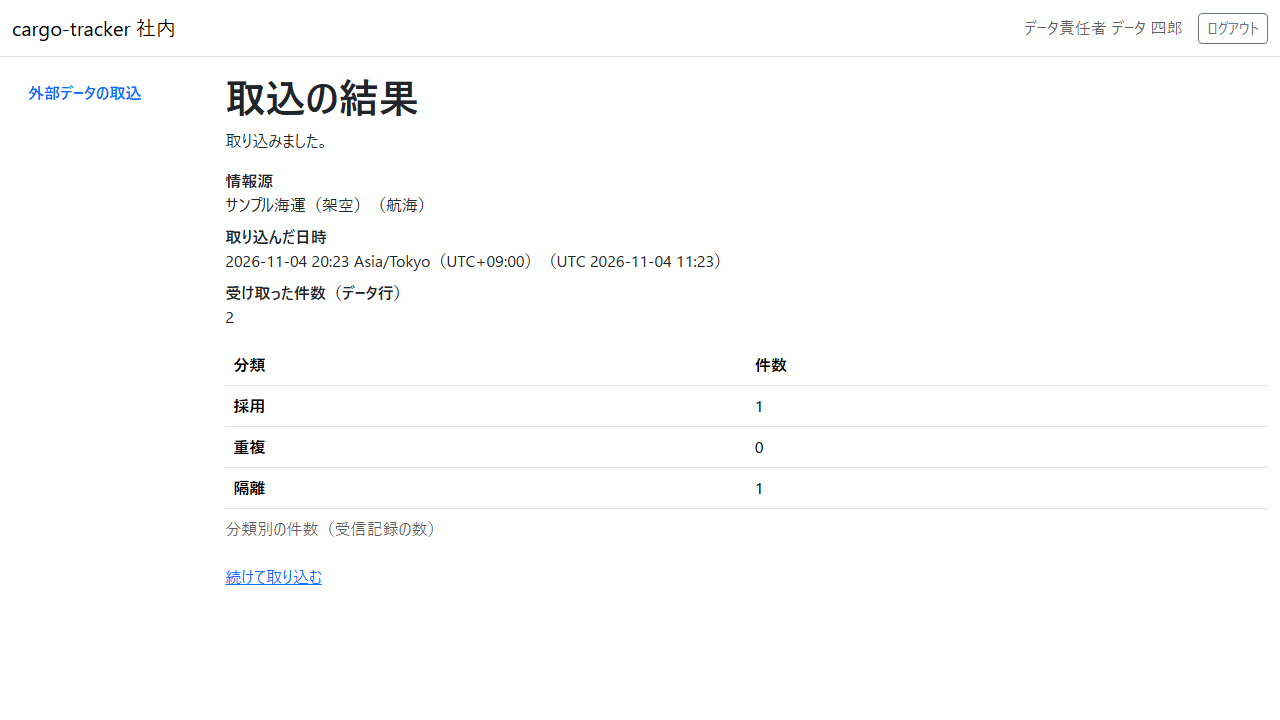
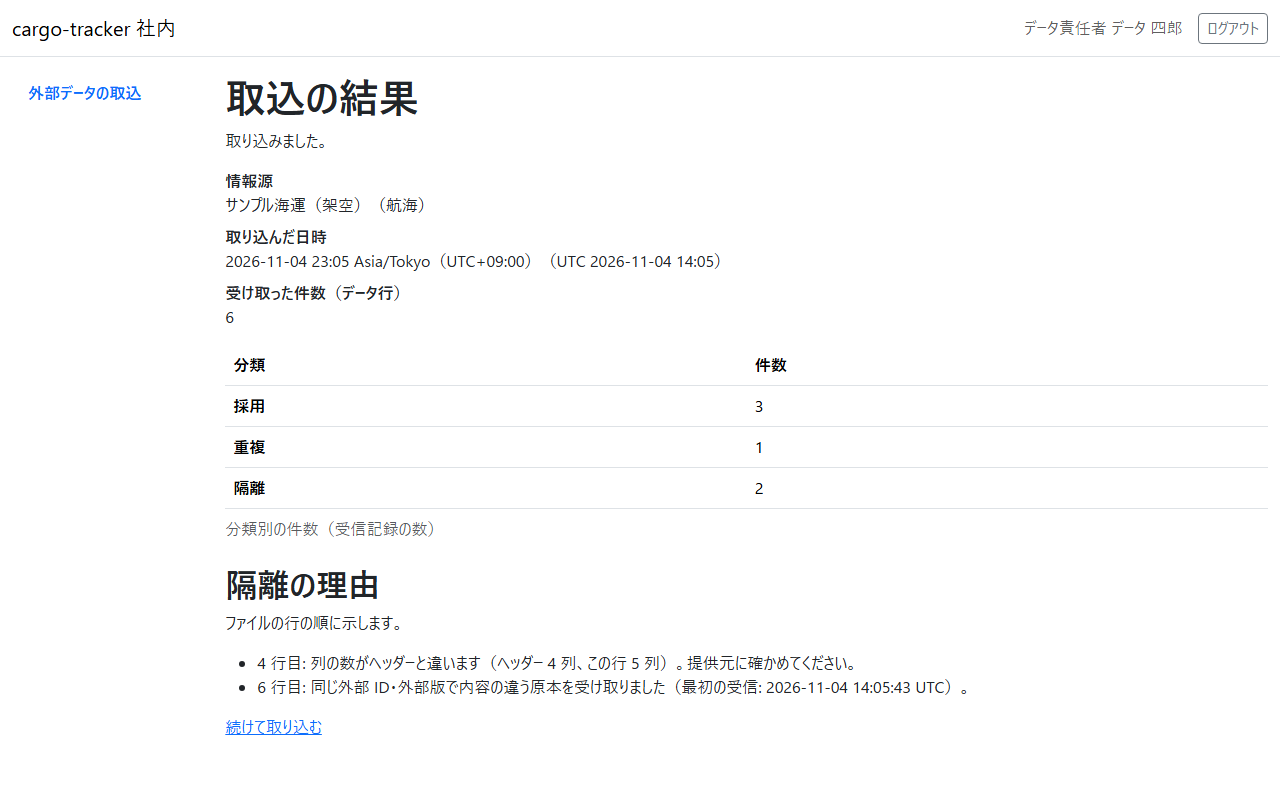
docs(manual): 隔離の理由の読み方と早見表をマニュアル 12 章に書く（Bolt 39c3 ステップ 7）
12.1 に「隔離の理由を読む」の項、理由ごとの「どうすればよいか」の早見表（実装の文と
突き合わせた。T-197）、用語集に「隔離の理由」、キャプチャ 12-ingestion-result.png を撮り直した。

Claude-Session: https://claude.ai/code/session_01GYBUMiQNsZ1DuDCs7LKGFo

diff --git a/docs/manual/12-外部データ.md b/docs/manual/12-外部データ.md
@@ -4,7 +4,7 @@ title: "12 章 外部データ"
 description: "データ責任者が、承認済みの情報源（運送会社・港湾など）から受け取った CSV ファイルを取り込み、採用・重複・隔離の件数を確かめる手順です。"
 tags: [manual,cargo-tracker]
 status: draft
-generated: { by: anthropic/claude-opus-5-5, at: 2026-11-04T12:23:24Z }
+generated: { by: anthropic/claude-opus-5-5, at: 2026-11-04T14:06:42Z }
 ---
 
 # 12 章 外部データ
@@ -16,7 +16,7 @@ generated: { by: anthropic/claude-opus-5-5, at: 2026-11-04T12:23:24Z }
 | 画面 | 役割 | 節 |
 | :--- | :--- | :--- |
 | 外部データの取込 | 承認済みの情報源を 1 つ選び、CSV ファイルを取り込む | [12.1](#121-外部データの取込) |
-| 取込の結果 | 取り込んだファイルの受け取った件数と、分類別の件数を確かめる | [12.1](#取込の結果を読む) |
+| 取込の結果 | 取り込んだファイルの受け取った件数と、分類別の件数と、隔離の理由を確かめる | [12.1](#取込の結果を読む) |
 
 情報源の選定と承認は、画面ではなく運用の手順で行います。取り込んだ行のうち隔離になったものの内容を確かめる画面（隔離・差異の確認）は準備中です。
 
@@ -25,7 +25,7 @@ generated: { by: anthropic/claude-opus-5-5, at: 2026-11-04T12:23:24Z }
 ### この画面でできること
 
 - 承認済みの情報源を 1 つ選び、その情報源から受け取った CSV ファイルを取り込みます
-- 取り込んだ後に、受け取った件数と、採用・重複・隔離の件数を確かめます
+- 取り込んだ後に、受け取った件数と、採用・重複・隔離の件数と、隔離になった行の理由を確かめます
 
 ### 画面の開き方
 
@@ -82,7 +82,8 @@ generated: { by: anthropic/claude-opus-5-5, at: 2026-11-04T12:23:24Z }
 | ③ | 取り込んだ日時 | 取り込んだ日時。日本時間と UTC を併記します（例: 2026-11-16 10:05 Asia/Tokyo（UTC+09:00）（UTC 2026-11-16 01:05）） |
 | ④ | 受け取った件数（データ行） | ファイルのデータ行の数。ヘッダーの行と空の行は数えません |
 | ⑤ | 分類別の件数（受信記録の数） | 取り込んだ行の分類ごとの数。「採用」「重複」「隔離」の 3 行です |
-| ⑥ | 「続けて取り込む」 | 外部データの取込の画面に戻ります |
+| ⑥ | 隔離の理由 | 隔離になった行とファイルの理由を、ファイルの行の順に示します。隔離が 1 件以上のときだけ示されます。読み方は次の「隔離の理由を読む」を見てください |
+| ⑦ | 「続けて取り込む」 | 外部データの取込の画面に戻ります |
 
 分類の意味と、取り込んだ後にすることは次のとおりです。
 
@@ -90,9 +91,59 @@ generated: { by: anthropic/claude-opus-5-5, at: 2026-11-04T12:23:24Z }
 | :--- | :--- | :--- |
 | 採用 | 初めて受け取った行。業務で使う値として記録されました | ありません |
 | 重複 | すでに受け取った行（同じファイルの前の行を含む）と、提供元・原本の種別・外部 ID・外部版も内容も同じ行。値は増えず、前に取り込んだ結果がそのまま使われます | ありません。同じファイルを誤って 2 度取り込んだときは、すべて重複になります |
-| 隔離 | すでに受け取った行（同じファイルの前の行を含む）と、提供元・原本の種別・外部 ID・外部版が同じなのに内容が違う行。前に取り込んだ原本と値は上書きされず、隔離して残します。ファイルや行の形式を確かめられないとき（中身が空のファイルや、選んだ情報源と違う種別のファイルを選んだときなど）も隔離になります | 形式を確かめられない隔離かもしれないので、まず選んだ情報源とファイルの組み合わせを確かめてください。それでも分からなければ、提供元に、同じ外部 ID・外部版で内容の違う行を送った理由や、ファイルの形式を確かめてください。隔離した行の内容を確かめる画面（隔離・差異の確認）は準備中です。隔離の理由の読み方は、後の版で本章に足します |
+| 隔離 | すでに受け取った行（同じファイルの前の行を含む）と、提供元・原本の種別・外部 ID・外部版が同じなのに内容が違う行。前に取り込んだ原本と値は上書きされず、隔離して残します。ファイルや行の形式を確かめられないとき（中身が空のファイルや、選んだ情報源と違う種別のファイルを選んだときなど）も隔離になります | 形式を確かめられない隔離かもしれないので、まず選んだ情報源とファイルの組み合わせを確かめてください。それでも分からなければ、提供元に、同じ外部 ID・外部版で内容の違う行を送った理由や、ファイルの形式を確かめてください。どの行がどの理由で隔離になったかは、結果の画面の「隔離の理由」で確かめられます（[隔離の理由を読む](#隔離の理由を読む)）。隔離した行の内容を確かめる画面（隔離・差異の確認）は準備中です |
 
 受け取った件数（データ行）と、分類別の件数の合計は、一致しないことがあります。受け取った件数はファイルの行の数で数え、分類別の件数は取り込んだ記録の数で数えるためです。たとえば、1 つの値の中に改行を含む行は、ファイルでは 2 行以上でも 1 件の記録になります。
+
+### 隔離の理由を読む
+
+隔離が 1 件以上あると、分類別の件数の下に「隔離の理由」が示されます。隔離になった行とファイルの理由が、ファイルの行の順に 1 つずつ並びます。ファイル全体の誤りが先、続いて行の番号の順です。画面を読み込み直しても順は変わりません。重複の行の理由は示しません（重複は値に影響せず、することがないため）。
+
+1 つの理由は、次の形で示されます。
+
+```text
+<どこ>: <理由>（<詳しい内容>）。<どうすればよいか>
+```
+
+例: 「4 行目: 列の数がヘッダーと違います（ヘッダー 4 列、この行 5 列）。提供元に確かめてください。」
+
+「どこ」の読み方は次のとおりです。行の番号は、ヘッダーの行を 1 行目として、ファイルの行を上から数えた番号です（テキストエディターの行の番号と同じです）。
+
+| どこ | 意味 |
+| :--- | :--- |
+| ファイル | ファイル全体を読めなかった、またはヘッダーの行に誤りがある。ファイルの行は 1 行も取り込まれていません |
+| 12 行目 | その 1 行 |
+| 12 行目から 13 行目まで | 値の中の改行で 2 行以上にまたがる 1 件 |
+| 12 行目からファイルの終わりまで | 引用符が閉じないままファイルが終わり、その行から後を取り込めなかった部分。理由の一覧の最後に示されます |
+
+「詳しい内容」には、誤りのある列の名前や列の数などが括弧の中に示されます。詳しい内容がない理由もあります。
+
+隔離が 100 件を超えると、最初の 100 件だけを示し、その下に「ほかに 9,900 件の隔離があります（最初の 100 件だけを示しています）。」のように残りの件数を示します。すべての隔離を確かめる画面（隔離・差異の確認）は準備中です。
+
+#### 理由ごとの「どうすればよいか」
+
+理由と、画面に示される「どうすればよいか」は次のとおりです。内容の違う原本の理由には「どうすればよいか」が示されないので、表の「どうすればよいか」に従ってください。
+
+| どこ | 理由（画面の文） | どうすればよいか（画面の文） |
+| :--- | :--- | :--- |
+| ファイル | 文字コードが UTF-8 ではありません | UTF-8 で保存し直したファイルを取り込んでください。 |
+| ファイル | ヘッダーを読めません | ヘッダーの引用符を確かめてください。 |
+| ファイル | 必要な列がありません（足りない列の名前） | 選んだ情報源の種別に合ったファイルか確かめてください。合っていれば提供元に確かめてください。 |
+| ファイル | 同じ名前の列があります（重なっている列の名前） | 提供元に確かめてください。 |
+| 行 | 閉じた引用符の後に文字があります | 提供元に確かめてください。 |
+| 行 | 引用符で囲まない値の中に引用符があります | 引用符を含む値は引用符で囲んでください。 |
+| 行 | 列の数がヘッダーと違います（ヘッダーの列の数、この行の列の数） | 提供元に確かめてください。 |
+| 行 | 値が空です（列の名前） | 提供元に確かめてください。 |
+| 行 | 時刻の書式が違います（列の名前など） | オフセット付きの ISO 8601（例 2026-11-03T09:00:00+09:00）で書いてください。 |
+| 行 | 値が長すぎます（列の名前と上限の文字数） | 提供元に確かめてください。 |
+| 行 | 場所の形が違います（列の名前など） | UN/LOCODE（国コード 2 文字 + 地点コード 3 文字。例 JPTYO）で書いてください。 |
+| 行 | 種類が違います（列の名前） | PICKUP・RECEIPT_AT_ORIGIN・DEPARTURE・TRANSSHIPMENT・ARRIVAL・DELIVERY のどれかで書いてください。 |
+| 行 | 追跡番号の形が違います（列の名前） | CT と英大文字・数字 12 桁（0・O・1・I・L を除く）で書いてください。 |
+| 行 | 寄港の列の形が違います（原因と寄港の番号） | 寄港の並びを提供元に確かめてください。 |
+| 行 | 同じ外部 ID・外部版で内容の違う原本を受け取りました（最初の受信: 最初に受け取った日時（UTC）） | （画面には示されません）前に受け取った原本と値はそのまま使われています。提供元に、同じ外部 ID・外部版で内容の違う行を送った理由を確かめてください |
+| ファイルの終わりまで | 引用符が閉じていません。N 行を取り込めませんでした。 | ファイルを確かめてください。 |
+
+「閉じた引用符の後に文字があります」と「引用符で囲まない値の中に引用符があります」は、引用符の誤りでその行から後を読めなくなったときは「12 行目からファイルの終わりまで: 閉じた引用符の後に文字があります。29 行を取り込めませんでした。ファイルを確かめてください。」の形で示されます。このときの「どうすればよいか」は「ファイルを確かめてください。」です。
 
 ### 注意・補足
 
@@ -101,7 +152,6 @@ generated: { by: anthropic/claude-opus-5-5, at: 2026-11-04T12:23:24Z }
 - 1 回に送る大きさが 60 MB を超えると、この案内の画面も開かず、接続が切れてブラウザの接続エラーの画面（「接続がリセットされました」など。文言はブラウザによって違います）になる場合があります。ファイルは取り込まれていません。ブラウザの「戻る」で取込の画面に戻り、ファイルを分けて取り込んでください
 - 画面を開いた後に、選んだ情報源が停止されて承認済みでなくなったときは、エラー要約に「情報源: 選んだ情報源は承認済みではないため取り込めません。画面を開き直して、承認済みの情報源を選んでください。」と示されます。選んだ情報源がなくなっていたときは「情報源: 選んだ情報源が見つかりません。画面を開き直して、情報源を選び直してください。」と示されます。どちらもファイルは取り込まれません。「続けて取り込む」やナビゲーションから画面を開き直し、示された情報源から選び直してください
 - 停止で取り込める情報源が 1 つもなくなったときは、エラー要約の下に「取り込める情報源がありません。承認済みの情報源がありません。情報源を選定し、承認してください。承認は運用の手順で行います。」が示され、「情報源」「取込ファイル（CSV、UTF-8）」「取り込む」は示されません。エラー要約の項目をクリックすると、この文に移ります
-- 取り込んだファイルの中の誤りの行の読み方は、後の版で本章に足します
 - ブラウザの決まりで、選んだファイルはエラー要約の画面に残りません。エラー要約に「選んだファイルは残っていません。もう一度選んでください。」と示されたら、ファイルを選び直してください
 - 取り込める情報源がないときは、「情報源」「取込ファイル（CSV、UTF-8）」「取り込む」は示されず、「取り込める情報源がありません。承認済みの情報源がありません。情報源を選定し、承認してください。承認は運用の手順で行います。」とだけ示されます。運用の手順で情報源を選定し、承認してから取り込んでください
 - 取り込んだファイルの名前は、取込の結果の画面に示されません。どのファイルを取り込んだかは、取り込んだ日時と情報源で控えてください

diff --git a/docs/development/cargo-tracker/bolt_39c3_plan.md b/docs/development/cargo-tracker/bolt_39c3_plan.md
@@ -389,7 +389,7 @@ end note
 - [x] **4. 隔離の照会と結果の画面**（推奨のとおり承認として記録した。Recommend 承認の指示による）: ポートの `quarantinedOf`（メモリ・MyBatis の `ReceivedRecordMapper.java` と XML）、`IngestionSummaryView`・`IngestionSummaryQueryService`、`result.html`、Javadoc とコメント。行 7〜10・13・15〜18・20 が緑、UI の 39c・39c2 のシナリオが緑（内容の違う行のシナリオ :29-30 に足した「隔離の理由」の 1 行を含む。行 9）（完了の判定: 緑、`spotbugsMain`・`checkstyleMain`・`sonar-local:check`、S-16 の `uiTest` と axe 違反 0。**承認ゲート**（画面））
 - [x] **5. ファイルの誤りの「どうすればよいか」**（推奨のとおり承認として記録した。Recommend 承認の指示による）: `FormatDefect` の 2 つの文（開始準備の決定 (8)）。行 11・12・14 が緑（完了の判定: 緑、`checkstyleMain`。**承認ゲート**（画面の文言））
 - [x] **6. 上限いっぱいの照会の計測** → **39c4 に送った**（計画の承認の場で決めた。見積りを目安の 4 時間に収めるため。計測は 39c3 の照会を読むだけで画面の振る舞いもマニュアルも変えないので、後に送っても決まりに触れない。行 19 のテストと計測（T-241・T-242）は 39c4 の計画に書き写す）
-- [ ] **7. マニュアルとキャプチャ**: 12 章の 12.1（「取込の結果を読む」の項目の表に「隔離の理由」、隔離の理由の読み方、理由ごとの「どうすればよいか」の早見表（内容の違う原本の次の行動を含む）、:93・:104 の「後の版で」を消す）、用語集（docs/manual/用語集.md）に「隔離の理由」、`manualScreenshots`（行 21。`12-ingestion-result.png` の撮り直し）。章の早見表の文を `FormatDefect` の文と突き合わせる（T-197）（完了の判定: キャプチャの差分と突き合わせの記録。**承認ゲート**（マニュアル））
+- [x] **7. マニュアルとキャプチャ**（12.1 の隔離の理由の項と早見表 16 行（実装の文と突き合わせて一致）、用語集、12-ingestion-result.png の撮り直し。推奨のとおり承認として記録した。Recommend 承認の指示による）: 12 章の 12.1（「取込の結果を読む」の項目の表に「隔離の理由」、隔離の理由の読み方、理由ごとの「どうすればよいか」の早見表（内容の違う原本の次の行動を含む）、:93・:104 の「後の版で」を消す）、用語集（docs/manual/用語集.md）に「隔離の理由」、`manualScreenshots`（行 21。`12-ingestion-result.png` の撮り直し）。章の早見表の文を `FormatDefect` の文と突き合わせる（T-197）（完了の判定: キャプチャの差分と突き合わせの記録。**承認ゲート**（マニュアル））
 - [ ] **8. 品質ゲートと開発レビュー**: 変異、`check`・`uiTest`、その後に SonarQube、開発レビューとその直し。push の前に `check`（T-225）
 - [ ] **9. 終了報告**: push して CI とデモ環境の配備を確かめ（デモ環境でデータ責任者でログインし、混在のファイルの隔離の理由の並びを見る）、`demoVideo` で `@demo-bolt-39c3/notes` を撮る。release_plan（39c3 の行の計画と終了報告のリンク）・開発の索引・mkdocs を直す
 

diff --git a/docs/manual/用語集.md b/docs/manual/用語集.md
@@ -4,7 +4,7 @@ title: "付録 A 用語集"
 description: "本マニュアルと画面で使う言葉です。"
 tags: [manual,cargo-tracker]
 status: draft
-generated: { by: anthropic/claude-opus-5-5, at: 2026-11-04T09:58:17Z }
+generated: { by: anthropic/claude-opus-5-5, at: 2026-11-04T14:06:42Z }
 ---
 
 # 付録 A 用語集
@@ -63,6 +63,7 @@ generated: { by: anthropic/claude-opus-5-5, at: 2026-11-04T09:58:17Z }
 | 採用（外部データの取込） | 取り込んだ行の分類の 1 つ。初めて受け取った行で、業務で使う値として記録されます |
 | 重複 | 取り込んだ行の分類の 1 つ。すでに受け取った行と、提供元・原本の種別・外部 ID・外部版も内容も同じ行。値は増えません |
 | 隔離 | 取り込んだ行の分類の 1 つ。すでに受け取った行と、提供元・原本の種別・外部 ID・外部版が同じなのに内容が違う行。前の原本と値を上書きせずに残します。ファイルや行の形式を確かめられないとき（中身が空のファイルや、選んだ情報源と違う種別のファイルなど）も隔離になります。まず選んだ情報源とファイルの組み合わせを確かめ、それでも分からなければ提供元に確かめます（[12.1](12-外部データ.md#121-外部データの取込)） |
+| 隔離の理由 | 取込の結果の画面に示される、隔離になった行とファイルの理由。「4 行目: 列の数がヘッダーと違います（ヘッダー 4 列、この行 5 列）。提供元に確かめてください。」のように、どこ（ファイル・行の番号）・理由・どうすればよいかをファイルの行の順に示します。重複の行の理由は示しません（[12.1](12-外部データ.md#隔離の理由を読む)） |
 
 ## 2. 画面と表記
 

diff --git a/docs/log.md b/docs/log.md
@@ -1,6 +1,8 @@
 # Docs Update Log
 
 ## 2026-11-04
+* **Update**: [用語集](/manual/用語集.md) を更新（anthropic/claude-opus-5-5）
+* **Update**: [12-外部データ](/manual/12-外部データ.md) を更新（anthropic/claude-opus-5-5）
 * **Update**: [release_plan](/development/cargo-tracker/release_plan.md) を更新（anthropic/claude-opus-5-5）
 * **Update**: [ui_design](/design/cargo-tracker/ui_design.md) を更新（anthropic/claude-opus-5-5）
 * **Update**: [test_strategy](/design/cargo-tracker/test_strategy.md) を更新（anthropic/claude-opus-5-5）
